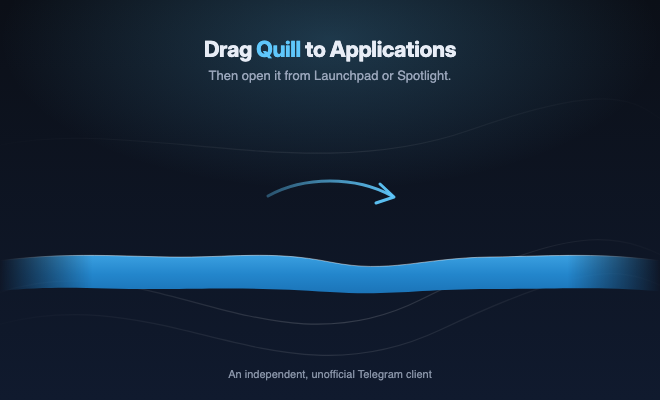
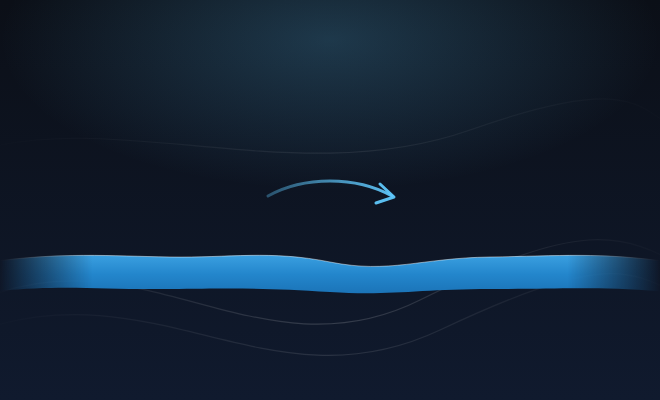
Leave only Finder's two labels as text in the disk image window

Changed region(s): [[0.303, 0.09, 0.697, 0.15], [0.303, 0.18, 0.697, 0.21], [0.3333, 0.93, 0.6667, 0.96]]

diff --git a/assets/macos/dmg/background.html b/assets/macos/dmg/background.html
@@ -1,19 +1,11 @@
 <!doctype html>
-<!-- Source of the DMG window background (660x400 points). Render with
-     scripts/macos-dmg-background.sh; the PNGs it writes are committed. Colors
-     are the landing page's (site/styles.css) and the icon's blue. Finder draws
-     the icon labels black in light mode and white in dark mode, so the tile
-     under each label is a mid-tone blue that both read on. -->
+<!-- Source of the DMG window background (660x400 points). It has no text of
+     its own: Finder's two icon labels are the only words in the window.
+     Render it to the committed background.png and background@2x.png with the
+     command in docs/decisions/distribution-channels.md. Colors are the landing
+     page's (site/styles.css) and the icon's blue. -->
 <html><head><meta charset="utf-8"><style>
-@font-face { font-family: "Quill Headline"; src: url("../../../site/fonts/headline.woff2") format("woff2"); font-weight: 750; }
 html, body { margin: 0; width: 660px; height: 400px; overflow: hidden; background: #0b0f17; }
-.title { position: absolute; left: 0; right: 0; top: 36px; text-align: center;
-  font: 750 22px/1.2 "Quill Headline", -apple-system, "SF Pro Display", sans-serif; letter-spacing: -0.015em; color: #e8edf6; }
-.title span { color: #5fc7fb; }
-.sub { position: absolute; left: 0; right: 0; top: 68px; text-align: center;
-  font: 500 13px/1.3 -apple-system, "SF Pro Text", sans-serif; color: #9aa6bb; }
-.foot { position: absolute; left: 0; right: 0; bottom: 18px; text-align: center;
-  font: 500 11px/1.3 -apple-system, "SF Pro Text", sans-serif; color: #8792a6; }
 svg { position: absolute; inset: 0; }
 </style></head><body>
 <svg width="660" height="400" viewBox="0 0 660 400" xmlns="http://www.w3.org/2000/svg">
@@ -78,7 +70,4 @@ svg { position: absolute; inset: 0; }
   <path d="M 268 196 C 304 176, 356 176, 392 196" fill="none" stroke="url(#arrow)" stroke-width="3" stroke-linecap="round"/>
   <path d="M 380 184 L 394 197 L 376 203" fill="none" stroke="#5fc7fb" stroke-opacity="0.95" stroke-width="3" stroke-linecap="round" stroke-linejoin="round"/>
 </svg>
-<div class="title">Drag <span>Quill</span> to Applications</div>
-<div class="sub">Then open it from Launchpad or Spotlight.</div>
-<div class="foot">An independent, unofficial Telegram client</div>
 </body></html>
